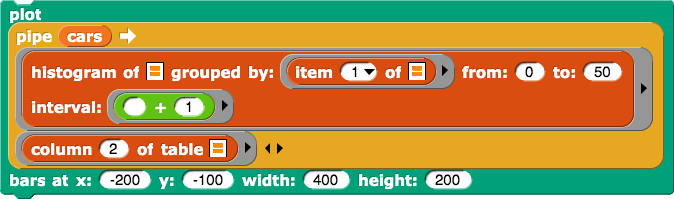
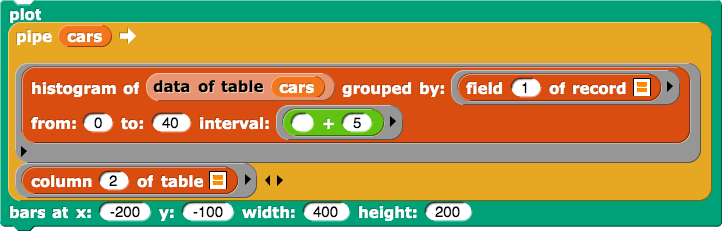
5.3 Data - ongoing work

diff --git a/cur/programming/5-algorithms/3-turning-data-information/3-importing-data.html b/cur/programming/5-algorithms/3-turning-data-information/3-importing-data.html
@@ -103,12 +103,20 @@
                             </ul>
                             <p>Notice that all of these examples only require data from one column. If you want to ask a question that requires looking at another column (for example, "What's the model of the car with the highest MPG?"), you can do the Take It Further Activity below.</p>
                         </div>
-                        <div class="todo">We have not done a multi-column slice yet. --MF, 6/25/19 <p>What is that again? Is that <code>map (list (item 1 of ( )) (item (13) of ( )) ) over (cars)</code>? I couldn't think of a good reason to have them to that... --MF, 6/26/19</p>
-                        <p>Build a problem 11 with this... --MF, 6/27/19</p></div>
+                        <div class="todo">
+                            We have not done a multi-column slice yet. --MF, 6/25/19 <p>What is that again? Is that <code>map (list (item 1 of ( )) (item (13) of ( )) ) over (cars)</code>? I couldn't think of a good reason to have them to that... --MF, 6/26/19</p>
+                            <p>Build a problem 11 with this... --MF, 6/27/19</p>
+                            <p>I can't think of a good way to motivate this... --MF, 6/28/19</p>
+                            <li>constructing new list a.k.a. inserting a column with <code>map</code> (TIF because this is complicated to think about)</li>
+                            <p>This is both inside the yellow box and the todo above. weird.... The LI tag must have bumped it out... I've never seen that happen before.</p>
+                        </div>
                     </div>
                 </li>
             </ol>
         </div>
+        
+        <div class="todo">I'm not convinced this is the best way to access this information or that it's worth teaching given how complicated it is to talk about (name the block). --MF, 6/28/19</div>
+        <div class="todo">Does this question fit in the TIF too (Which vehicle make has the fewest cars in this database? (You'd need <code>minimum</code>.)? --MF, 6/28/19</div>
         <div class="todo"><p>I need to redo these images and <code>code</code> statements with "record" instead of "row." --MF, 6/27/19</p></div>
         <div class="takeItFurther">
             <ol type="A">
@@ -232,7 +240,7 @@
             <div class="comment">image needs alt-title text --MF, 6/26/19</div>
             <img class="indent" src="/bjc-r/img/5-algorithms/group-data-of-cars-reporting.png" alt="" title="" /><br />
             <ul>
-                <li>Column A shows all of the vehicle makes.</li>
+                <li>Column A shows all of the vehicle makes (field 12 of each record).</li>
                 <li>Column B shows the total number of vehicles of each make.</li>
                 <li>Column C contains a list of all the data from <var>cars</var> for the vehicles of that Make (such as all the data for the Acuras or all the data for the Nissans). If you double-click one of the lists in column C, another table will open showing the data for all cars of that make. </li>
             </ul>  
@@ -267,45 +275,46 @@
             The <code>histogram</code> function works like the <code>group</code> function, except that it allows you to specify the upper and lower boundaries of the data you are grouping by and the size of the groupings, and it sorts the data by grouping. For example, here is the <var>cars</var> data grouped by MPG (column 1):<br />
             <img class="indent" src="/bjc-r/img/5-algorithms/histogram-by-mpg.png" alt="" title="" />
             <ul>
-                <li>Now, Column A shows MPG grouped and sorted into intervals of 5.</li>
-                <li>As before, Column B shows the total number of vehicles with each MPG range (0&ndash;5, 5&ndash;10, 10&ndash;15, etc.)</li>
-                <li>As before, Column C contains a list of all the data from cars with that MPG range (such as all the data for the 268 cars that get between 20 and 25 MPG in the city).</li>
+                <li>Now, Column A shows MPG (the first field of each record) grouped into intervals of 5 and sorted.</li>
+                <li>As before, Column B shows the total number of vehicles within each MPG range (0&ndash;5, 5&ndash;10, 10&ndash;15, etc.)</li>
+                <li>As before, Column C contains a list of all the data from cars within that MPG range (such as all the data for the 268 cars that get between 20 and 25 MPG in the city).</li>
             </ul>
         </p>
         <div class="endnote">
             <p><code>Histogram</code> is a higher order function like <code>keep</code>, <code>map</code>, <code>combine</code>, <code>find first</code>, and <code>group</code> because it takes functions (here, both <code>field</code> and <code>+5</code>) as input.</p>
         </div>
-        
-        <p>
-            
-            For example, with and without pipe...<br />
+        <p>You can plot that second column from <code>histogram</code> to visualize your data:
+            <div class="comment">images need alt/title text. --MF, 6/27/19</div>
             <img class="indent" src="/bjc-r/img/5-algorithms/plot-cars-histogram.png" alt="" title="" />
-            <img class="indent" src="/bjc-r/img/5-algorithms/plot-cars-histogram-with-pipe.png" alt="" title="" /><br />
-
-            And you can plot...<br />
-            <img class="indent" src="/bjc-r/img/5-algorithms/plot-cars-histogram-stage.png" alt="" title="" />
+            <img class="indent noshadow" src="/bjc-r/img/5-algorithms/plot-cars-histogram-stage.png" alt="" title="" />
         </p>
+        <div class="endnote">
+            <div class="comment">image needs alt/title text. --MF, 6/27/19</div>
+            <p><a href="#hint-pipeplot" data-toggle="collapse" title="Click to see an example of using pipe with plot.">Click to see an example of using <code>pipe</code> with <code>plot</code>.</a></p>
+            <div id="hint-pipeplot" class="collapse">
+                <p>
+                    This <code>plot</code> instruction with <code>pipe</code> will generate the same image as the <code>plot</code> instruction without <code>pipe</code> above.<br />
+                    <img class="indent" src="/bjc-r/img/5-algorithms/plot-cars-histogram-with-pipe.png" alt="" title="" />
+                </p>
+            </div>
+        </div>
     
         <div class="forYouToDo">
-			<ol start="5">
-				<li><code>histogram</code> and <code>plot</code></li>
+			<ol start="6">
+				<li>Create a histogram plot to examine some aspect of your dataset. Experiment with the interval to see what different intervals look like. </li>
+                <li><div class="comment">DAT-2.E</div><img class="inline" src="/bjc-r/img/icons/write-out-thoughts.png" alt="Write Out Your Thoughts" title="Write Out Your Thoughts" />How can programs like Snap<em>!</em> help you gain knowledge by investigating data. Provide three examples of knowledge you gained about your dataset, and how you created that information from the data. </li>
 			</ol>
 		</div>
 
-        <h3>Asking Questions Across Columns</h3>
-        <p>E.g., Which vehicle make has the fewest cars in this database? (You'd need <code>minimum</code>.)</p>
-
         <div class="todo">I'm wondering about offering the kids the video or part of it on the page or in the TIF (the teachers should definitely see it). --MF, 6/26/19</div>
 
-        <div class="takeItFurther">
+        <div class="todo">Still need to write TIF</div>
+            <div class="takeItFurther">
             <ol type="A">
 				<li><code>sort</code> (TIF because it's hard to understand how/why to set up the predicate</li>
-                <li>constructing new list a.k.a. inserting a column with <code>map</code> (TIF because this is complicated to think about)</li>
             </ol>
         </div>
     
-        
-
 
     </body>
 </html>

diff --git a/cur/programming/5-algorithms/3-turning-data-information/5-metadata.html b/cur/programming/5-algorithms/3-turning-data-information/5-metadata.html
@@ -13,6 +13,30 @@
             <p>MF: I'm ok wih this content, but I want it to feel more tied into the lab rather than to feel like an add-on.</p>
         </div>
         
+        <div class="todo">
+        <p>
+        <strong>DAT-2.B:
+Describe what information can be extracted from metadata.</strong></p><p>	DAT-2.B.1:
+Metadata are data about data. For example, the piece of data may be an image, while the metadata may include the date of creation or the file size of the image. 
+</p><p>
+DAT-2.B.2:
+Changes and deletions made to metadata do not change the primary data.
+</p><p>
+
+DAT-2.B.3:
+Metadata are used for finding, organizing, and managing information. 
+</p><p>
+
+DAT-2.B.4:
+Metadata can increase the effective use of data or data sets by providing additional information. 
+</p><p>
+
+DAT-2.B.5:
+Metadata allow data to be structured and organized.
+</p>
+        
+        </div>
+        
         <div class="learn">
         	<div class="comment">This is a useless pink box. --MF, 12/14/18</div>
             <p><strong>On this page</strong>, you will learn about and practice answering questions about <em>metadata</em>.</p>
